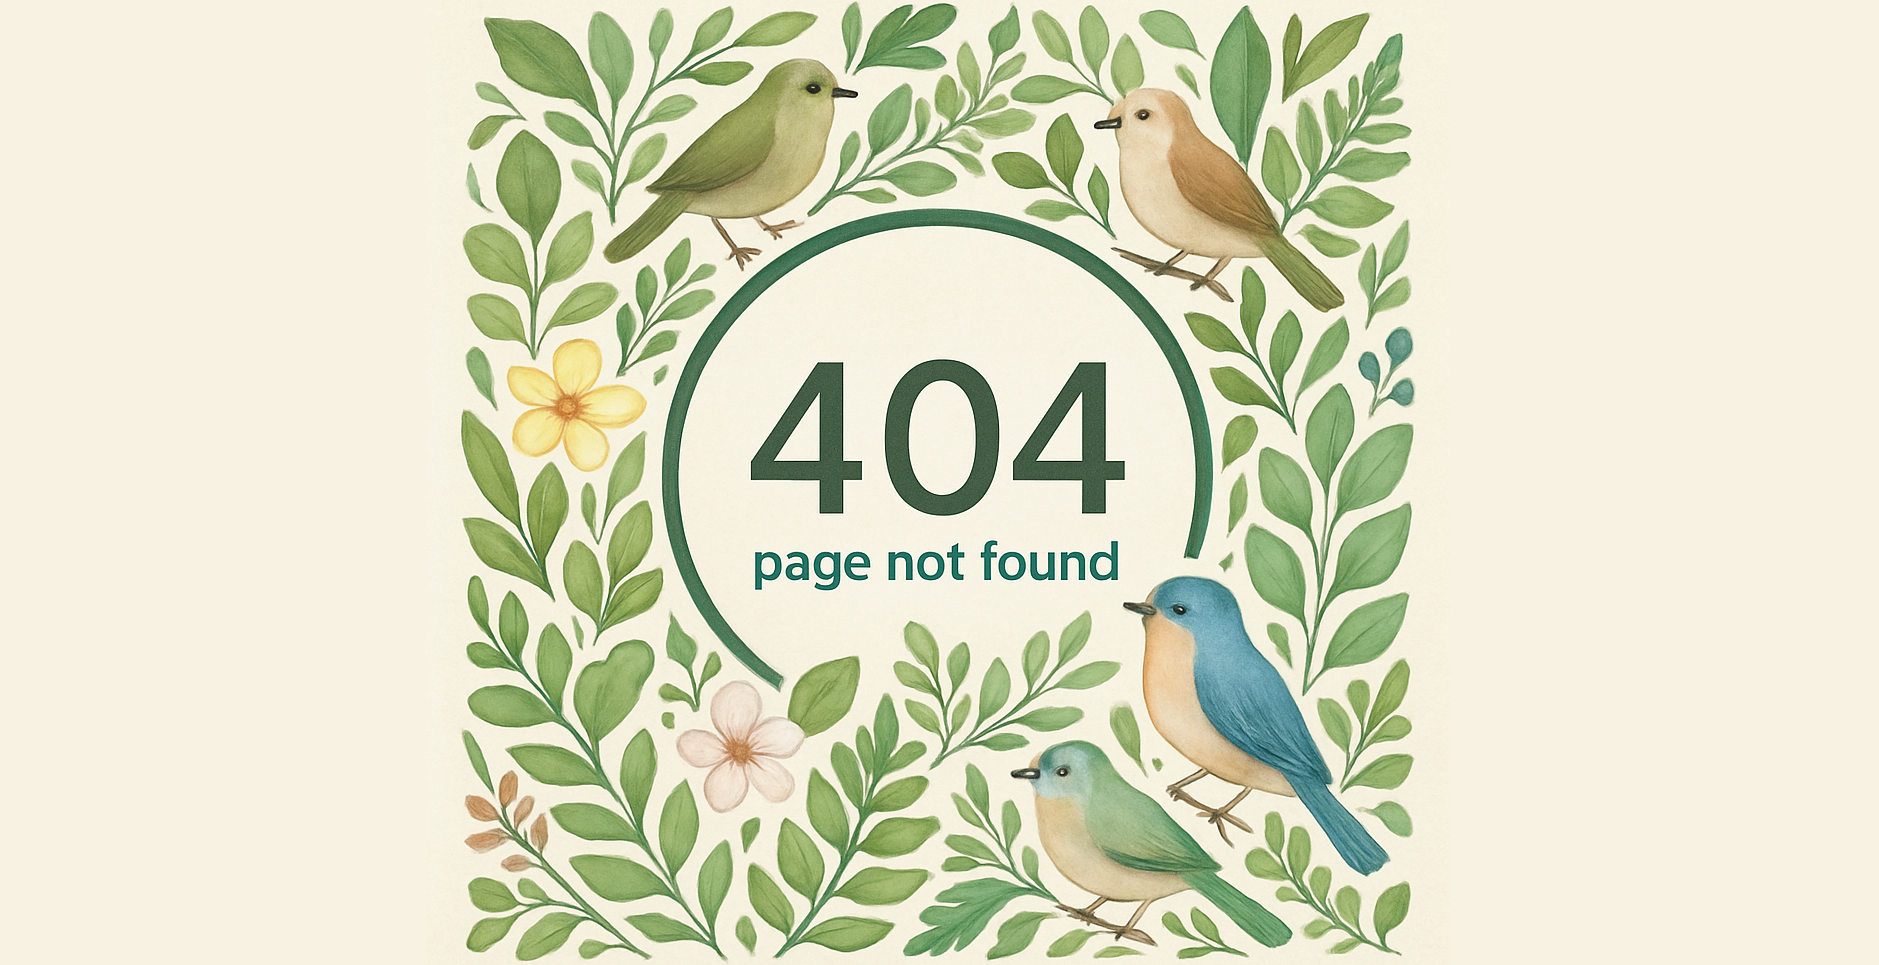
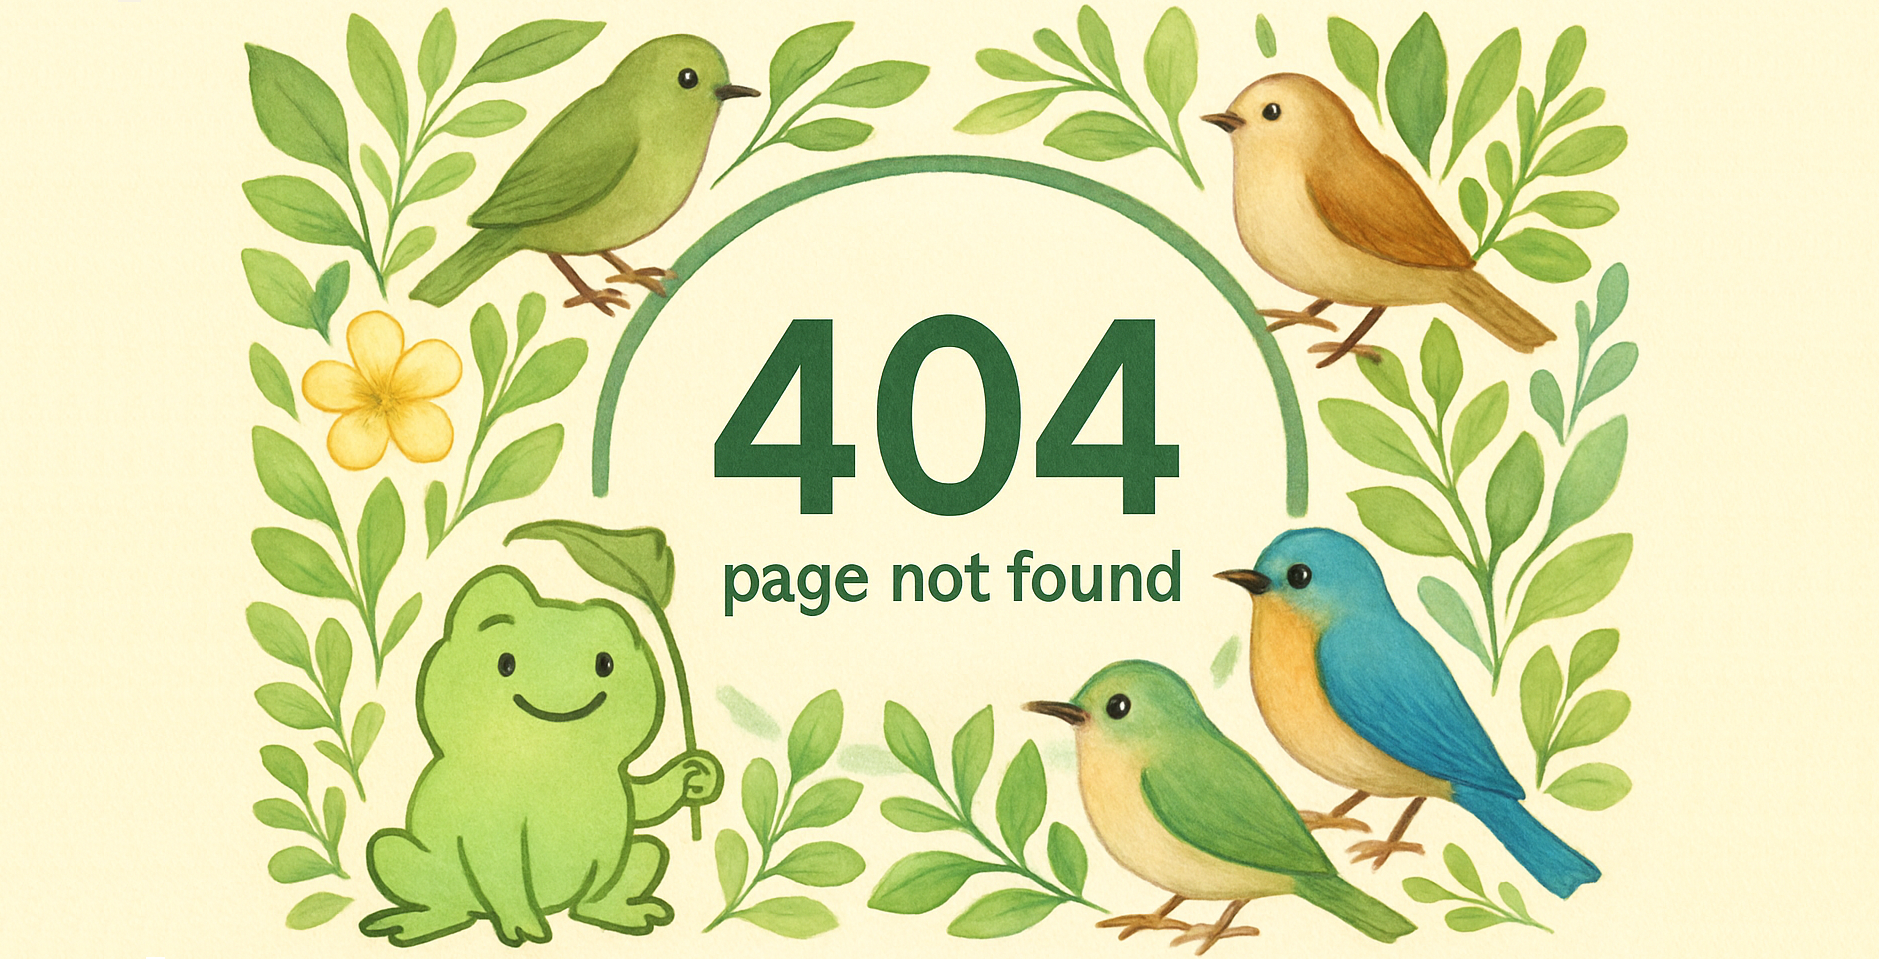
Add profile image, Revise 404 image

diff --git a/_posts/2025-06-17-test.md b/_posts/2025-06-17-test.md
@@ -14,7 +14,7 @@ search: true # Change true to false if you don't want to have this article be se
 {: .notice--success}
 
 <div class="notice--success">
-<h4>This is the second test notice.</h4>
+Notice This is the second test notice.
 <ul>
     <li> This is the little notice1. </li>
     <li> This is the little notice2. </li>
